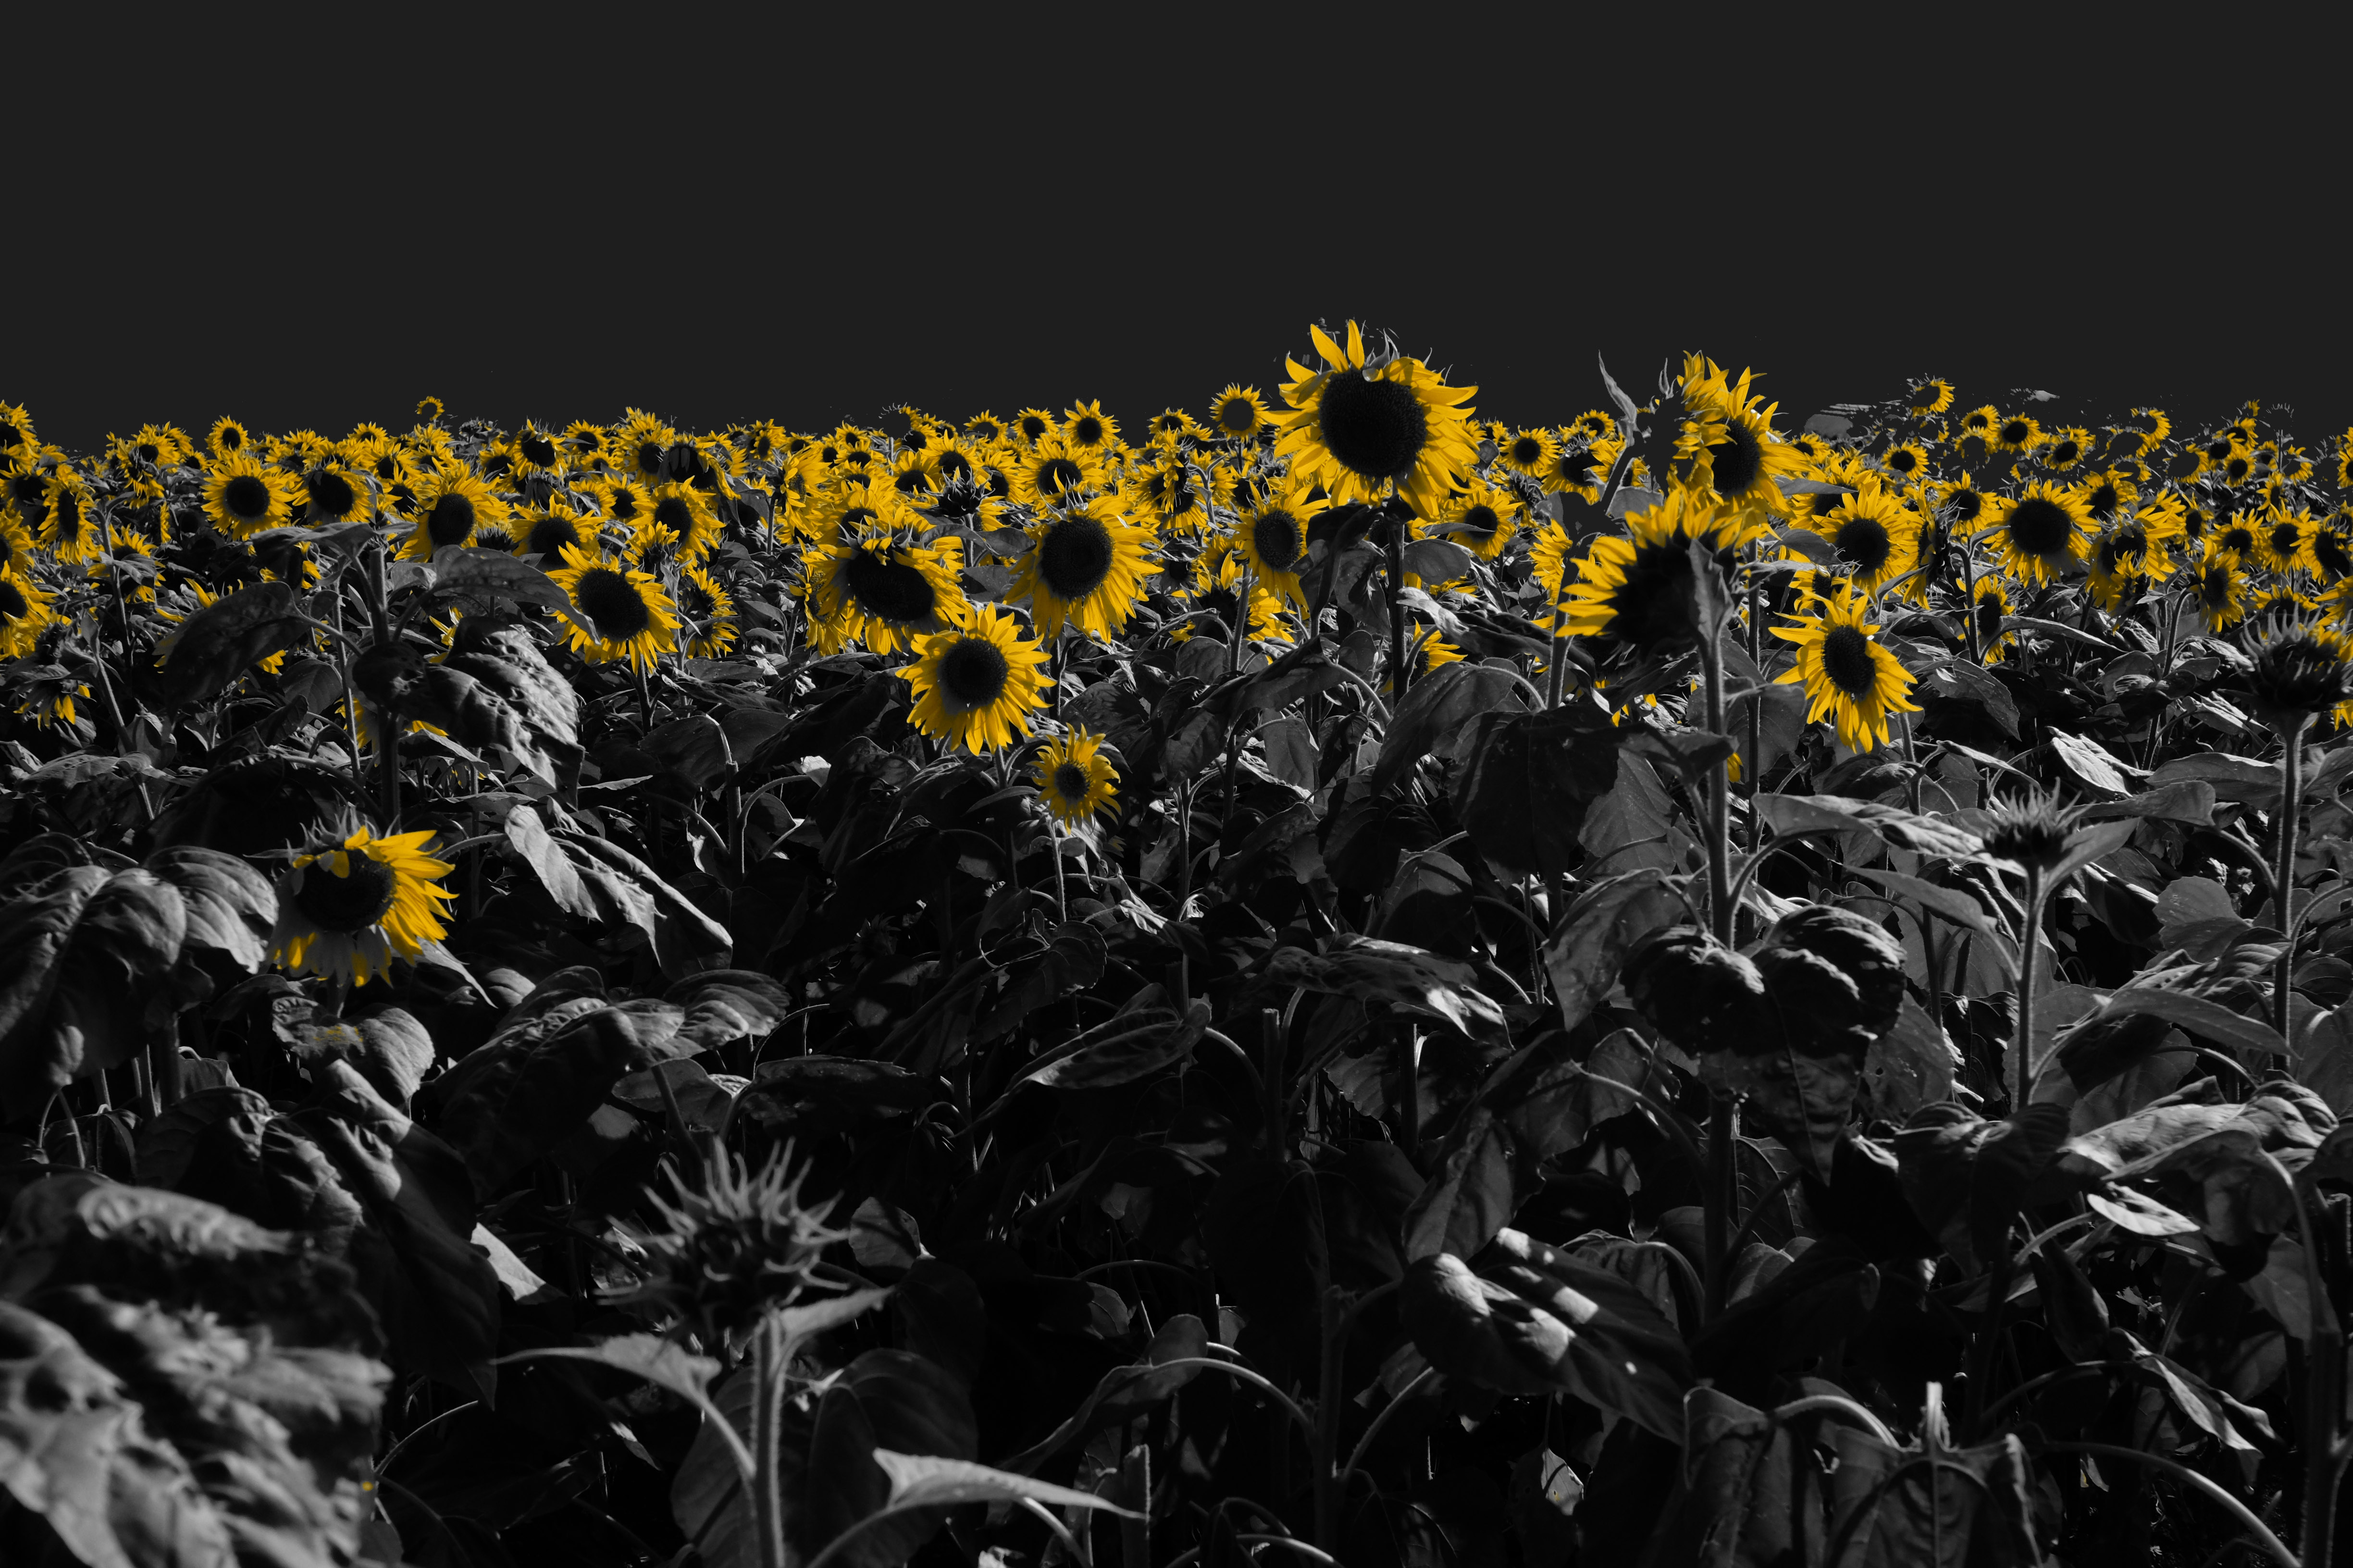
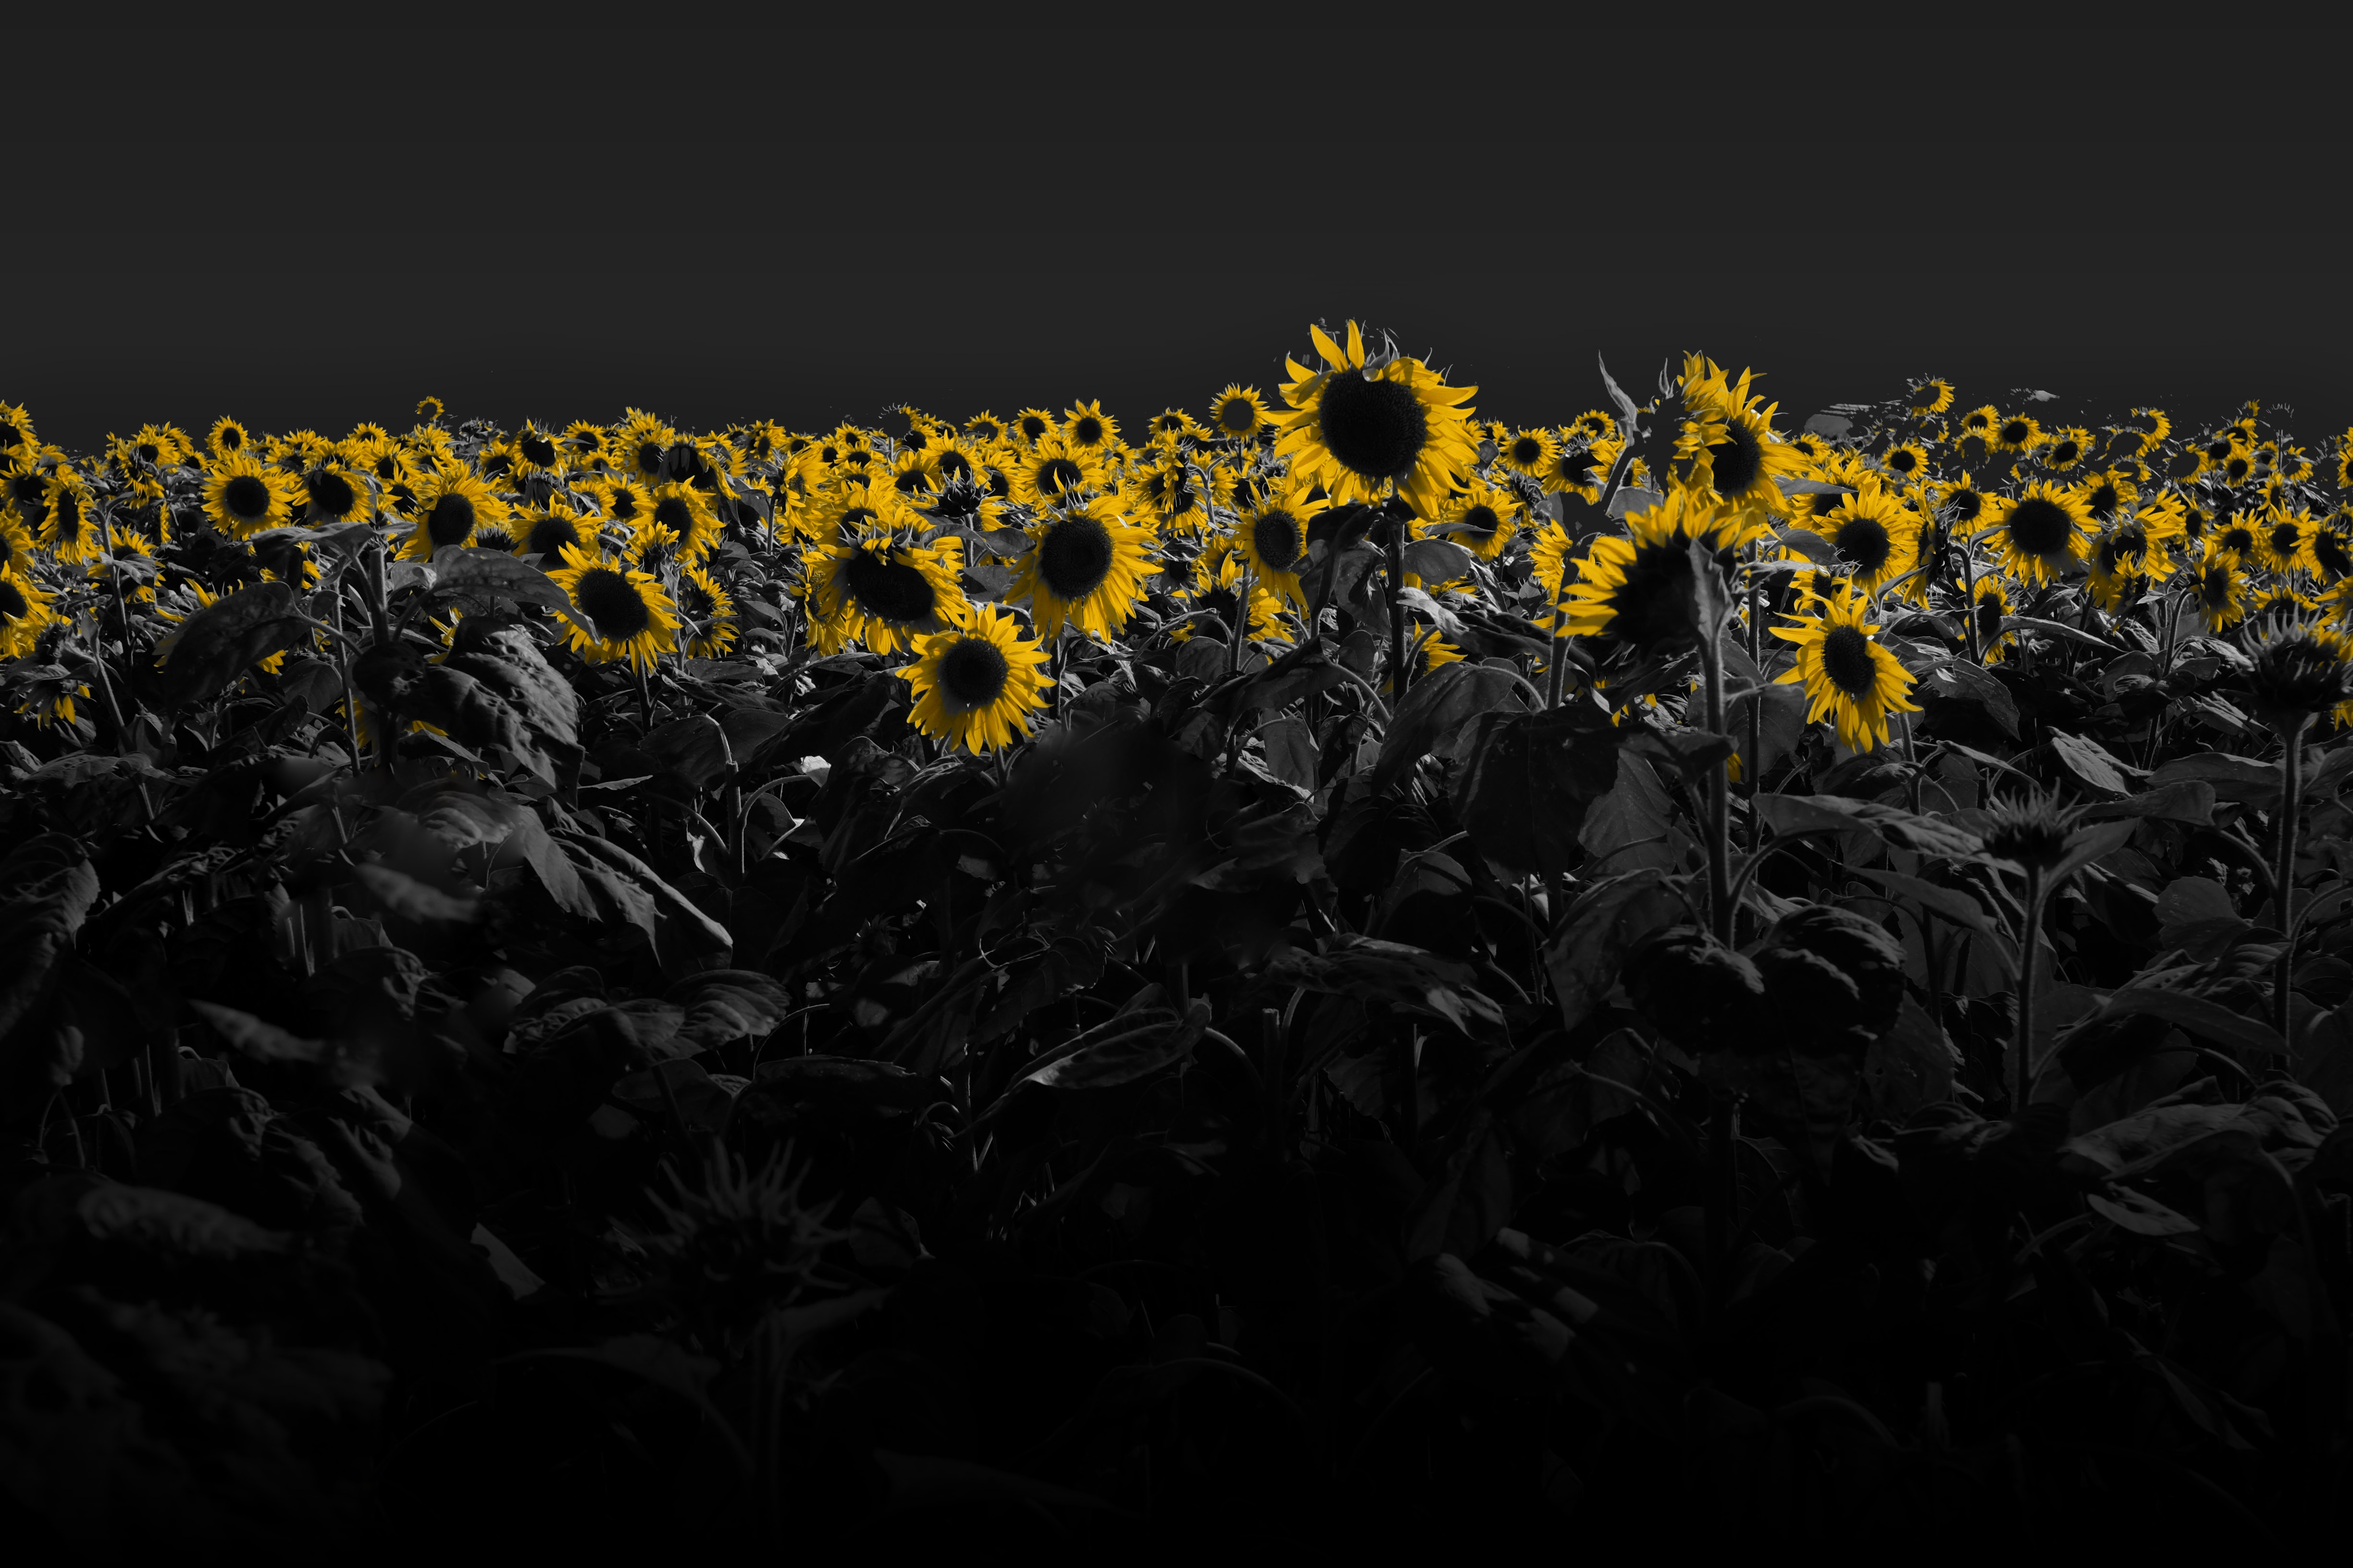
jsのリファクタリング

diff --git a/js/main.js b/js/main.js
@@ -1,85 +1,54 @@
 "use strict"
 
+// ↓↓ TOPへ戻るボタンの表示 ↓↓ 
 
-//hero__listの横移動----------------------------------------
+  const target = document.getElementById("target");
+  const to_top = document.getElementById("to_top");
 
-const hero_lists = document.getElementsByClassName("hero__list")
-
-// スクロールするたびに判定
-window.addEventListener("scroll",to_side);
-
-function to_side(){
-  for(let i = 0;i < hero_lists.length;i++){
-    const y = hero_lists[i].getBoundingClientRect().y;
-    if(i%2){
-      if(y < 250){
-        hero_lists[i].style.transform = `translateX(${(y - 250) * (-1)}px)`;
-      } else {
-        hero_lists[i].style.transform = "translateX(0)";
-      };
+  // 位置を確認してクラスを制御
+  function top_button(){
+    if(target.getBoundingClientRect().y < -100){
+      to_top.classList.add("show");
     } else {
-      if(y < 250){
-        hero_lists[i].style.transform = `translateX(${y - 250}px)`;
+      to_top.classList.remove("show");
+    };
+  };
+
+  // スクロールするたびに判定
+  window.addEventListener("scroll",top_button);
+
+// ↑↑ TOPへ戻るボタンの表示 ↑↑ 
+
+
+// ↓↓ hero__listの横移動 ↓↓ 
+
+  const hero_lists = document.getElementsByClassName("hero__list");
+
+  function to_side(){
+    for(let i = 0;i < hero_lists.length;i++){
+
+      const y = hero_lists[i].getBoundingClientRect().y;
+      const point = 240;
+
+      if(i%2){
+        if(y < point){
+          hero_lists[i].style.transform = `translateX(${(y - point) * (-1)}px)`;
+        } else {
+          hero_lists[i].style.transform = "translateX(0)";
+        };
       } else {
-        hero_lists[i].style.transform = "translateX(0)";
+        if(y < point){
+          hero_lists[i].style.transform = `translateX(${y - point}px)`;
+        } else {
+          hero_lists[i].style.transform = "translateX(0)";
+        };
       };
     };
   };
-};
+
+  // スクロールするたびに判定
+  window.addEventListener("scroll",to_side);
+
+// ↑↑ hero__listの横移動 ↑↑ 
 
 
-
-
-//SKILLの遅延表示----------------------------------------
-const lists = document.querySelectorAll("li");
-
-function callback(entries,obj){
-  entries.forEach(entry=>{
-
-    if(!entry.isIntersecting){
-      return;
-    };
-
-    entry.target.classList.add("appear");
-    obj.unobserve(entry.target);
-  });
-};
-
-const option = {
-  threshold : .5,
-};
-
-const observer = new IntersectionObserver(callback,option);
-
-lists.forEach(li=>{
-  observer.observe(li);
-});
-
-
-//TOPボタンの遅延表示---------------------------------------
-const target = document.getElementById("target");
-const header = document.querySelector("header");
-const toTop = document.getElementById("top");
-
-function callback2(e){
-  if(!e[0].isIntersecting){
-    toTop.classList.add("scrolled");
-    header.classList.add("scrolled");
-  } else {
-    toTop.classList.remove("scrolled");
-    header.classList.remove("scrolled");
-  };
-};
-
-const observer2 = new IntersectionObserver(callback2);
-
-toTop.addEventListener("click",e =>{
-  e.preventDefault();
-
-  window.scrollTo({
-    top:0,
-    behavior:"smooth",
-  });
-});
-
-observer2.observe(target);

diff --git a/css/style.css b/css/style.css
@@ -9,6 +9,8 @@ html{
 }
 body{
   /* font-family: "OptimaLTPro-Roman","Ryumin Regular KL",serif; */
+  width: 100%;
+  overflow-x: hidden;
   position: relative;
   margin: 0;
   background: rgb(209, 203, 203);
@@ -110,10 +112,12 @@ img{
   opacity: 1;
 }
 .top{
+  pointer-events: none;
   opacity: 0;
   transition: opacity .5s;
 }
-.top.scrolled{
+.top.show{
+  pointer-events: all;
   opacity: 1;
 }
 
@@ -128,20 +132,25 @@ img{
   width: calc(100% - 400px - 16px);
   height: calc(100vh - 22px);
   border-top: 1.5px solid rgba(255,255,255,.9);
-  border-right: 1px solid rgba(255,255,255,.9);
+  border-right: 1.5px solid rgba(255,255,255,.9);
   pointer-events: none;
+
+  /* border-color: rgb(193, 164, 64); */
+  /* border-color: rgb(19, 59, 8); */
 }
 .bottom-left{
   position: fixed;
-  top: 150px;
+  top: 180px;
   left: 11px;
   width: 100px;
   width: calc(100% - 22px);
-  height: calc(100vh - 150px - 11px);
-  /* border: 1px solid rgba(255,255,255,.9); */
-  border-bottom: 1px solid rgba(255,255,255,.9);
-  border-left: 1px solid rgba(255,255,255,.9);
+  height: calc(100vh - 180px - 11px);
+  border-bottom: 1.5px solid rgba(255,255,255,.9);
+  border-left: 1.5px solid rgba(255,255,255,.9);
   pointer-events: none;
+  
+  /* border-color: rgb(193, 164, 64);
+  border-color: rgb(19, 59, 8); */
 }
 
 /* ↑枠線↑ */
@@ -168,6 +177,7 @@ header{
   max-width: 400px;
   object-fit: contain;
   margin: 8px;
+  /* filter: drop-shadow(0 0 3px rgba(255,255,255,5)); */
   filter: drop-shadow(0 0 3px rgba(0,0,0,5));
   pointer-events: none;
   transition: opacity .3s;
@@ -190,6 +200,8 @@ header.scrolled .header__title-img--not-hover:hover
 .header__nav-icon{
   font-size: 24px;
   /* line-height: 60px; */
+  /* color: rgb(193, 164, 64);
+  color: rgb(19, 59, 8); */
   color: white;
   filter: drop-shadow(0 0 3px rgba(0,0,0,5));
   text-decoration: none;
@@ -227,21 +239,22 @@ header.scrolled .header__title-img--not-hover:hover
 
 .hero__himawari{
   width: 100%;
-  height: 500px;
+  height: 600px;
   background-image: url(../img/himawari.jpg);
   background-size: cover;
+  background-position: 50% 20%;
   margin: 0 auto;
 }
 .hero__gradient{
   width: 100%;
-  height: 501px;
-  background: linear-gradient(rgba(0,0,0,0.4) 8%,rgba(0,0,0,0) 20%,rgba(209, 203, 203,1) 100%);
+  height: 601px;
+  background: linear-gradient(rgba(0,0,0,0.4) 8%,rgba(0,0,0,0) 40%,rgba(209, 203, 203,1) 100%);
 }
 .hero__lists{
   display: flex;
   flex-wrap: wrap;
   justify-content: center;
-  padding-top: 230px;
+  padding-top: 270px;
   margin: 0 auto;
   font-family: 'Sansita Swashed', cursive;
 }
@@ -281,8 +294,10 @@ header.scrolled .header__title-img--not-hover:hover
 .hero__list div{
   position: absolute;
   color: #fff;
+  /* color: rgb(193, 164, 64);
+  color: rgb(19, 59, 8); */
   font-size: 20px;
-  text-shadow: 0 0 3px rgba(0,0,0,5);
+  text-shadow: 0 0 3px rgba(0,0,0,.4);
 }
 .hero__list:nth-child(1) div{
   top: -6px;

diff --git a/index.html b/index.html
@@ -349,7 +349,7 @@
     <small>(c) 2022 shibata</small>
   </footer>
 
-  <a  id="top" class="top" href="#">
+  <a  id="to_top" class="top" href="#">
     <img src="img/TOPボタン(白).png" alt="TOPへ戻る" class="top__img">
     <img src="img/TOPボタン(ホバー).png" alt="" class="top__img top__img-hover">
   </a>
